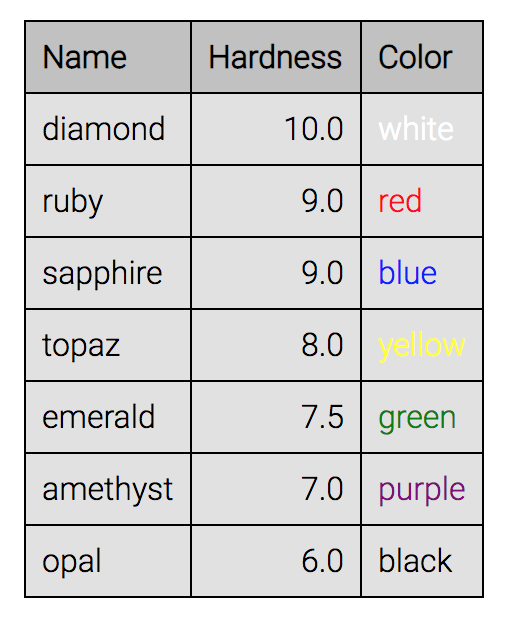
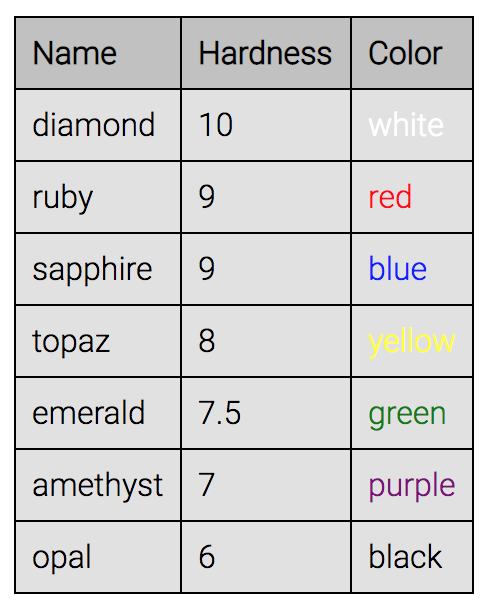
Skrev om oppgaven om tabeller og databinding

Changed region(s): [[0.0306, 0.0, 0.9796, 0.9802]]

diff --git a/oppgaver/1-table/src/fasit.js b/oppgaver/1-table/src/fasit.js
@@ -9,32 +9,30 @@ const data = [
 ];
 
 // Entrypoint for d3
-const headerTR = d3.select("#table").append("thead");
 
+const header = d3.select("#table").append("thead");
+const body = d3.select("#table").append("tbody");
+
+const headerTR = header.append("tr");
 headerTR.append("th").text("Name");
-
 headerTR.append("th").text("Hardness");
-
 headerTR.append("th").text("Color");
 
-const dataTbody = d3
-  .select("#table")
-  .append("tbody")
-  .selectAll("tr")
-  .data(data);
+const dataTbody = body.selectAll("tr").data(data);
+const bodyTr = dataTbody.enter().append("tr");
 
-const dataTR = dataTbody.enter().append("tr");
+function getName(value) {
+  return value.name;
+}
 
-dataTR.append("td").text((d, i) => d.name);
+function getHardness(value) {
+  return value.hardness;
+}
 
-const numberFormat = d3.format(".1f");
+function getColor(value) {
+  return value.color;
+}
 
-dataTR
-  .append("td")
-  .attr("class", "number")
-  .text((d, i) => numberFormat(d.hardness));
-
-dataTR
-  .append("td")
-  .attr("style", (d, i) => `color: ${d.color}`)
-  .text((d, i) => d.color);
+bodyTr.append("td").text(getName);
+bodyTr.append("td").text(getHardness);
+bodyTr.append("td").text(getColor).style("color", getColor);

diff --git a/oppgaver/1-table/README.md b/oppgaver/1-table/README.md
@@ -1,5 +1,92 @@
 # Oppgave 1 - Helt grunnleggende databinding
 
+Oppgaven går ut på å ta disse dataene:
+
+```javascript
+const data = [
+  { name: "diamond", hardness: 10, color: "white" },
+  { name: "ruby", hardness: 9, color: "red" },
+  { name: "sapphire", hardness: 9, color: "blue" },
+  { name: "topaz", hardness: 8, color: "yellow" },
+  { name: "emerald", hardness: 7.5, color: "green" },
+  { name: "amethyst", hardness: 7, color: "purple" },
+  { name: "opal", hardness: 6, color: "black" }
+];
+```
+
+og få dette resultatet:
+
+<img src="../../img/1-table.png" width="200" />
+
+Dette virker kanskje litt overveldende, men vi tar det steg for steg sammen.
+
+## HTML table
+
+I denne oppgaven skal vi bruke en vanlig [HTML-tabell](https://developer.mozilla.org/en-US/docs/Learn/HTML/Tables/Basics). Et eksempel på en slik tabell er:
+
+```html
+<table>
+  <thead>
+    <tr>
+      <th>Navn</th>
+      <th>Alder</th>
+    </tr>
+  </thead>
+  <tbody>
+    <tr>
+      <td>Svein</td>
+      <td>27</td>
+    </tr>
+    <tr>
+      <td>February</td>
+      <td>27</td>
+    </tr>
+  </tbody>
+</table>
+```
+- `<table>` - definerer HTML tabellen.
+- `<tr>` - definerer en rad i tabellen.
+- `<thead>` - brukes til å gruppere header innholdet (typisk overskrifter)
+- `<th>` - definerer en header celle i tabellen.
+- `<tbody>` - brukes til å gruppere selve innholdet i tabellen.
+- `<td>` - definerer en vanlig celle i tabellen.
+
+:trophy: Bruk `select` til å hente ut tabellen med id `#table` og legg til et `thead`-element. Lagre dette i en variabel (feks. `header`).
+
+:trophy: Gjør det samme med et `tbody`-element og lagre dette i en ny variabel (feks. `body`).
+
+Du skal nå ha en tabell som ser slik ut:
+
+```html
+<table id="table">
+  <thead></thead>
+  <tbody></tbody>
+</table>
+```
+
+Fikk du det til? Sweet! :muscle:
+
+Det neste vi skal gjøre er å legge til innhold i headeren.
+
+:trophy: Legg til en rad i headeren (`thead`) med tre celler. Cellene skal henholdsvis ha tekstene `Name`, `Hardness` og `Color`.
+
+Du skal ende opp med tabellen under.
+
+```html
+<table id="table">
+  <thead>
+    <tr>
+      <th>Name</th>
+      <th>Hardness</th>
+      <th>Color</th>
+    </tr>
+  </thead>
+  <tbody></tbody>
+</table>
+```
+
+:bulb: Man kan bruke funksjonen `.text("Din tekst her")` til å sette teksten til et element.
+
 ## Databinding
 
 Vanligvis når man ønsker å lagre en verdi i et programmeringsspråk blir det gjort ved å tilordne en verdi til en variabel.
@@ -24,154 +111,106 @@ Når `.data()` blir kalt slår den sammen arrayet av verdier med arrayet av elem
 
 `.data()` returnerer et d3-objekt som representerer verdiene fra arrayet som blir gitt som argument. Dette kan man bruke til å endre attributter og styling på elementer ved å kjede metoder.
 
-La oss si at vi har fem sirkler:
+Det som kan være litt forvirrende når man binder med `.data()` er at man kan binde data til et selection som ikke er laget enda.
+
+Feks. hvis man har følgende html.
 
 ```html
-<div id="data_example1">
-  <svg width="375" height="100">
-    <circle id = "myCircle" cx="30" cy="50" r="30" ></circle>
-    <circle id = "myCircle" cx="100" cy="50" r="30" ></circle>
-    <circle id = "myCircle" cx="170" cy="50" r="30" ></circle>
-    <circle id = "myCircle" cx="240" cy="50" r="30" ></circle>
-    <circle id = "myCircle" cx="310" cy="50" r="30" ></circle>
-  </svg>
-</div>
+<svg id="circles" />
 ```
 
-Og at vi ønsker at sirklene skal ha de forskjellige radiusene vi har definert i `radiusData`:
+og gjør følgende selection og databinding.  
 
 ```javascript
-const radiusData = [10, 15, 20, 25, 30];
+
+const radiuses = [100, 200, 300];
+const circles = d3.select("#circles").selectAll("circle").data(radiuses);
 ```
-I kodesnutten under vil kallet på `.data()` slå sammen verdiene i `radiusData` med sirklene, og gi oss et d3-objekt som inneholder sammenslåingen tilbake. Deretter bruker vi `.attr()` til å endre på radiusen til hver sirkel i objektet.
+
+Så har man gjort en databinding på sirkler som ikke finnes enda.
+
+Det er her `.enter()` kommer inn i bildet. Dette er grovt forklart et datasett med dataverdiene som mangler et tilhørende element. Man kan da bruke `enter()` til å legge til de manglende elementene.
+
+```javascript
+function getRadius(radius) {
+  return radius;
+}
+
+circles.enter()
+  .append("circle")
+  .attr("r", getRadius);
+```
+
+Dette vil resultere i følgende html.
 
 ```html
-<div id="data_example1">
-  <svg width="375" height="100">
-    <circle id = "myCircle" cx="30" cy="50" r="30" ></circle>
-    <circle id = "myCircle" cx="100" cy="50" r="30" ></circle>
-    <circle id = "myCircle" cx="170" cy="50" r="30" ></circle>
-    <circle id = "myCircle" cx="240" cy="50" r="30" ></circle>
-    <circle id = "myCircle" cx="310" cy="50" r="30" ></circle>
-  </svg>
-</div>
-<script type="text/javascript">
-  const radiusData = [10, 15, 20, 25, 30];
-  const selectExample = d3.select("#data_example1");
-
-  selectExample.selectAll("circle")
-    .data(radiusData)
-    .attr("r", function(d){return d});
-</script>
+<svg id="circles">
+  <circle r="100"/>
+  <circle r="200"/>
+  <circle r="300"/>
+</svg>
 ```
 
-## Funksjonene enter() og append()
+> På samme måte kan man bruke `.exit()` til å få tak i de elementen som ikke har en tilhørende dataverdi.
 
-I eksempelet over hardkodet vi `circle`-elementene i html. Selv om dette er nyttig til å forklare d3, er det ikke alltid mulig å gjøre endringer i html-koden. Hvis man for eksempel ønsker å endre sirkelene til andre `svg`-elementer må man gjøre det linje for linje.
 
-Vi kan forbedre koden ved å bruke d3 til å generere og legge til elementer til DOMen. I dette eksempelet vil vi bruke `.enter()` og `.append()` til å legge til `circle`-elementer.
+I `src/index.js` har vi gitt en liste med data.
 
-> _`.enter()` kan kun bli brukt etter et `.data()`-kall og brukes til å indikere at nye elementer vil bli lagt til i nåværende selection. Et `.append()` eller `.insert()`-kall følger alltid et `.enter()`-kall_
+:trophy: Bruk denne listen til å legge til et `tr`-element i `tbody` for hver dataverdi i listen. Lagre denne databindingen i en variabel (feks. `bodyTr`)
 
-> _`.append()` brukes til å legge til elementer til DOMen. Man kan legge til `<p>`, `<div>`, text, `<svg>`-elementer osv._
+:bulb: Brukt først `selectAll("tr")` til å velge alle _potensielle_ `tr`-elementer i `tbody`. Bruker deretter `.data()` til å binde verdiene, for så bruke `.enter()` og `.append()` for å legge til elementene.
+
+Du skal nå ha følgende html struktur.
 
 ```html
-<div id="data_example"></div>
+<table id="table">
+  <thead>
+    <tr>
+      <th>Name</th>
+      <th>Hardness</th>
+      <th>Color</th>
+    </tr>
+  </thead>
+  <tbody>
+    <tr />
+    <tr />
+    <tr />
+    <tr />
+    <tr />
+    <tr />
+    <tr />
+  </tbody>
+</table>
 ```
 
-```js
-const circleData = [10, 15, 20, 25, 30];
+Som du ser er det et `tr`-element for hver dataverdi i listen vår.
 
-// Legger til et svg-element
-const selectDiv = d3.select("#data_example")
-  .append("svg")
-  .attr("width", circleData.length * 100)
-  .attr("height", 100);
+:trophy: Legg til et `td`-element med navnet i dataverdiene til hver tabellrad.
 
-// Legger til en sirkel for hvert element i circleData
-selectDiv.selectAll("circle")
-  .data(circleData)                        // Binder data
-  .enter()
-  .append("circle")                        // Legger til sirkel
-  .attr("cx", function(d){return d[0]*14}) // x-posisjon
-  .attr("cy", 50)                          // y-posisjon
-  .attr("r", function(d){return d[0]})     // radius fra circleData
-  .style("fill", "black");
-```
-
-
-## :bulb: Tips
-
-* D3 trenger ikke nødvendigvis å brukes til å binde `svg`-elementer. I denne oppgaven skal de bindes til en vanlig [HTML-tabell](https://developer.mozilla.org/en-US/docs/Learn/HTML/Tables/Basics) `<table>`
-
-* For å lage en `<tr>` i tabellen for hvert innslag i dataene gjør man altså:
+:bulb: Man kan gi `.text()` en funksjon som argument for å hente ut verdier fra den tilhørende dataverdien.
 
 ```javascript
-const dataTR = d3
-  .select(table)
-  .selectAll("tr")
-  .data(data)
-  .enter()
-  .append("tr");
+function getName(value) {
+  return value.name;
+}
+
+const selectionWithData = // ditt element med bundet data.
+
+selectionWithData.text(getName);
+
 ```
 
-* For å appende bare tekst, og ikke et DOM-element, bruk `.text((d, i) => "en tekst")`
+:trophy: Legg til en celle i hver rad for `hardness` og `color` også.
 
-* D3 kommer med mange nyttige verktøy for datavisualiseringsrelaterte oppgaver. F.eks. `format(<format>)`: https://github.com/d3/d3-format#d3-format
+:trophy: Bruk `.style(property, value)` til å gi `td`-elmentene for `color` verdien som tekstfarge.
 
-* Måten man bruker `.append` påvirker hierarkiet av elementer:
+:bulb: Man bestemmer tekstfarge med css property-en [color](https://developer.mozilla.org/en-US/docs/Web/CSS/color)
 
-```javascript
-dataTR
-  .append("foo")
-  .append("foo")
-  .append("foo");
+:bulb: `.style()` aksepterer både en verdi og en funksjon som andre argument. På samme måte som vi lagde funskjonen `getName` over.
 
-/* resultat:
-<tr>
-    <foo>
-        <foo>
-            <foo />
-        </foo>
-    </foo>
-</tr>
-*/
-```
 
-```javascript
-dataTR.append("foo");
-dataTR.append("foo");
-dataTR.append("foo");
-
-/* resultat:
-<tr>
-    <foo />
-    <foo />
-    <foo />
-</tr>
-*/
-```
-
-## :trophy: Din oppgave
-
-Oppgaven går ut på å ta disse dataene:
-
-```javascript
-const data = [
-  { name: "diamond", hardness: 10, color: "white" },
-  { name: "ruby", hardness: 9, color: "red" },
-  { name: "sapphire", hardness: 9, color: "blue" },
-  { name: "topaz", hardness: 8, color: "yellow" },
-  { name: "emerald", hardness: 7.5, color: "green" },
-  { name: "amethyst", hardness: 7, color: "purple" },
-  { name: "opal", hardness: 6, color: "black" }
-];
-```
-
-og få dette resultatet:
+Når din tabell er lik nok denne er du ferdig.
 
 <img src="../../img/1-table.png" width="200" />
-
-Legg merke til nummerformateringen og fargene. Oppgaven er ferdig når du synes at ditt resultat er likt nok.
 
 :school_satchel: Se [fasit](https://github.com/bekk/intro-til-d3/blob/master/oppgaver/1-table/src/fasit.js) for en mulig løsning og ekstra hint. Det er viktig å huske at det er som regel veldig mange forskjellige måter å lage samme visualisering på.
